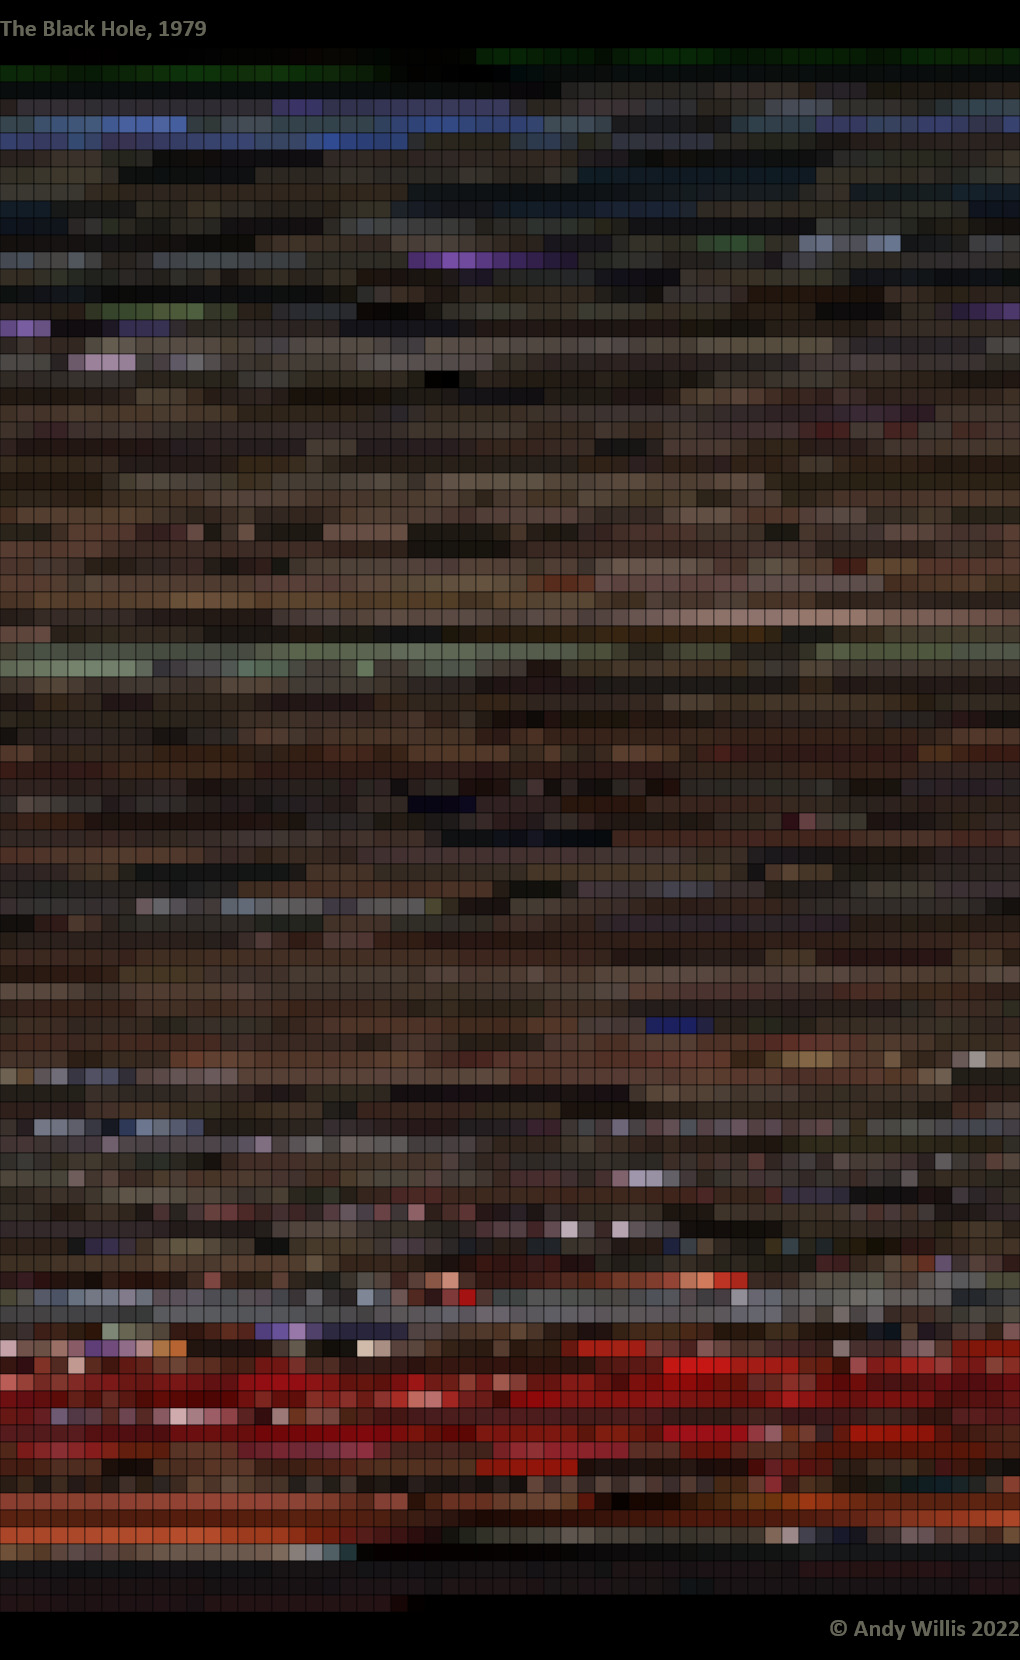
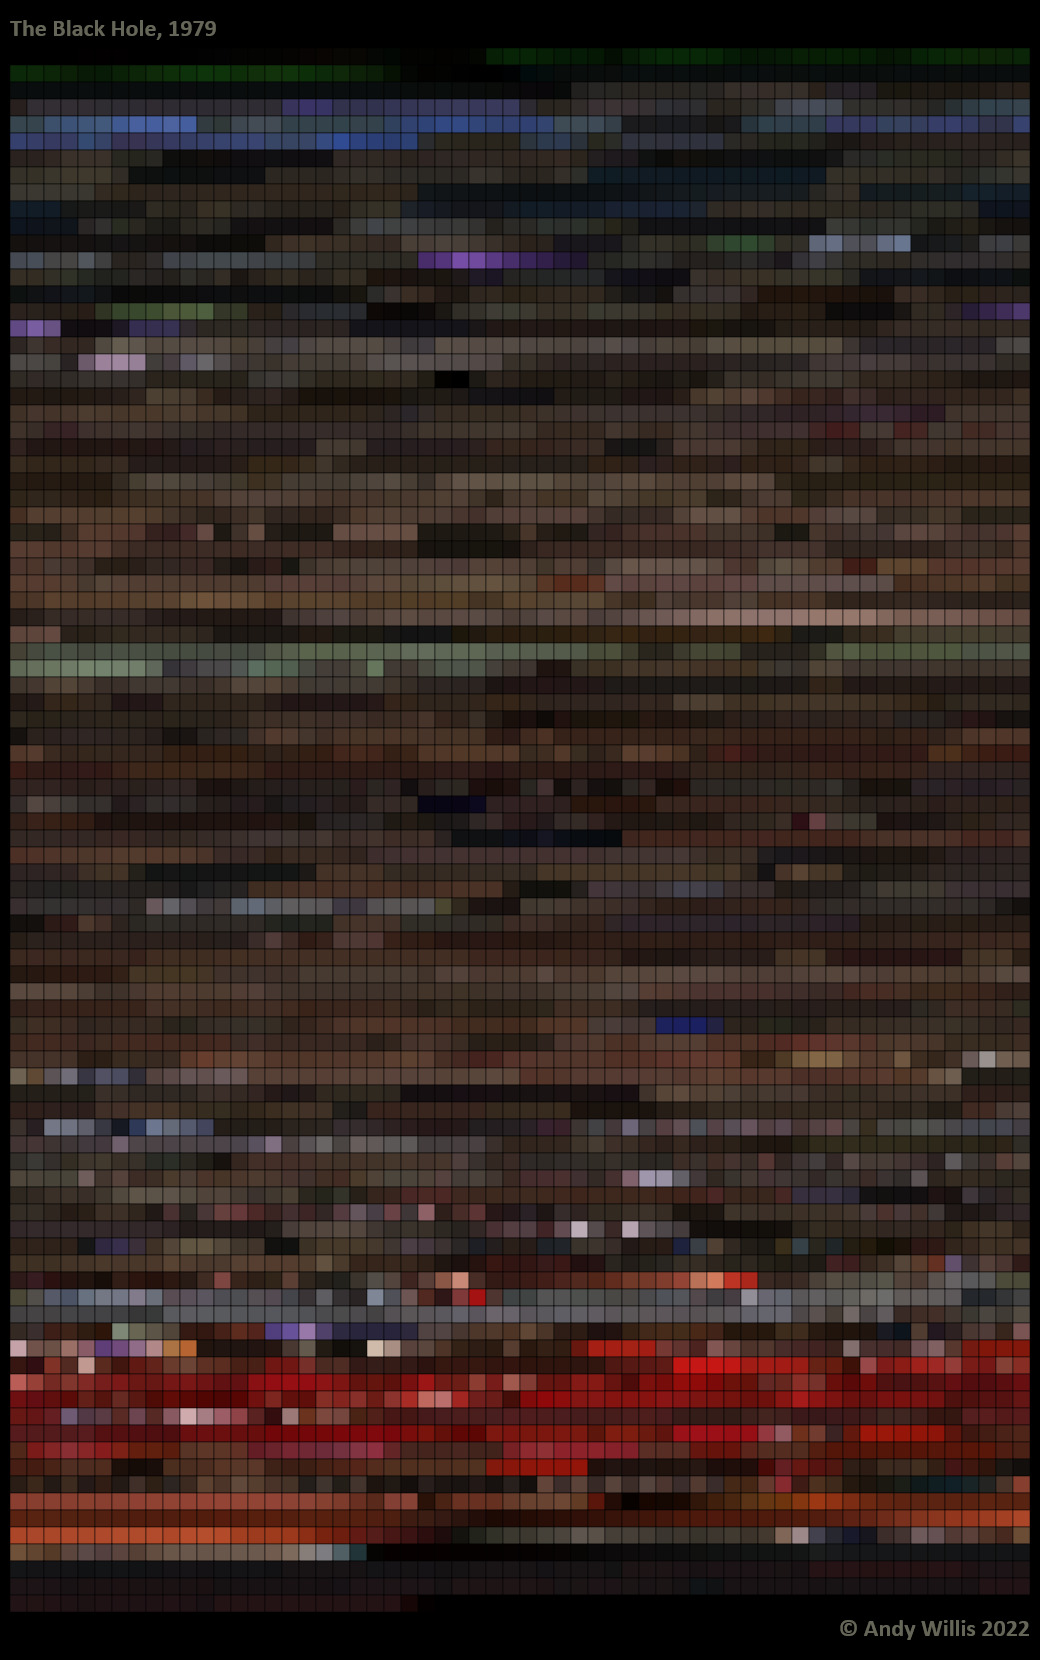
Better canvas

diff --git a/packages/client/src/components/Details/index.jsx b/packages/client/src/components/Details/index.jsx
@@ -63,11 +63,11 @@ function Details({ data, canvasRef }) {
     const canvas = canvasRef.current;
     const dest = document.createElement('canvas');
 
-    dest.width = canvas.width;
+    dest.width = canvas.width + 20;
     dest.height = canvas.height + (fontSize * 4);
 
     const ctx = dest.getContext('2d');
-    ctx.drawImage(canvas, 0, fontSize * 2);
+    ctx.drawImage(canvas, 10, fontSize * 2);
 
     ctx.font = `bold ${fontSize}px Calibri, sans-serif`;
     ctx.fillStyle = 'rgba(255, 255, 220, 0.4)';
@@ -76,8 +76,8 @@ function Details({ data, canvasRef }) {
     const copy = `© Andy Willis ${new Date().getFullYear()}`;
     const measureCopy = ctx.measureText(copy);
 
-    ctx.fillText(text, 0, fontSize + (fontSize / 2));
-    ctx.fillText(copy, dest.width - measureCopy.width, dest.height - fontSize);
+    ctx.fillText(text, 10, fontSize + (fontSize / 2));
+    ctx.fillText(copy, dest.width - measureCopy.width - 10, dest.height - fontSize);
 
     const dataUrl = dest.toDataURL(encoding);
     const anchor = document.createElement('a');
